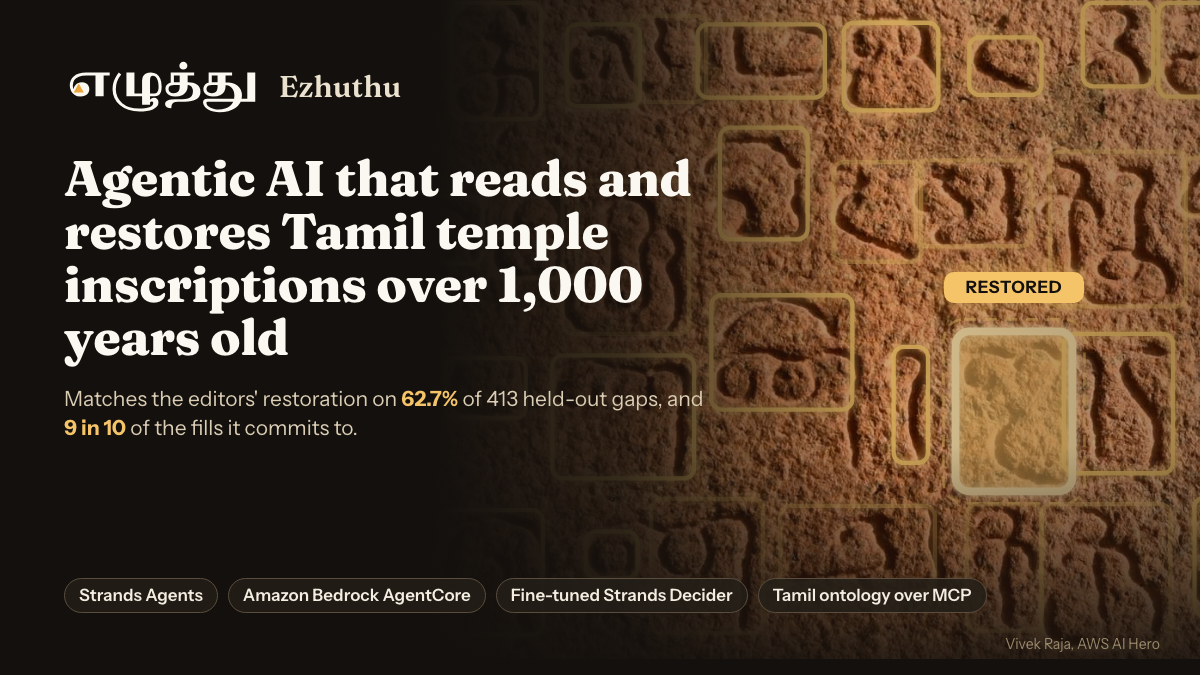
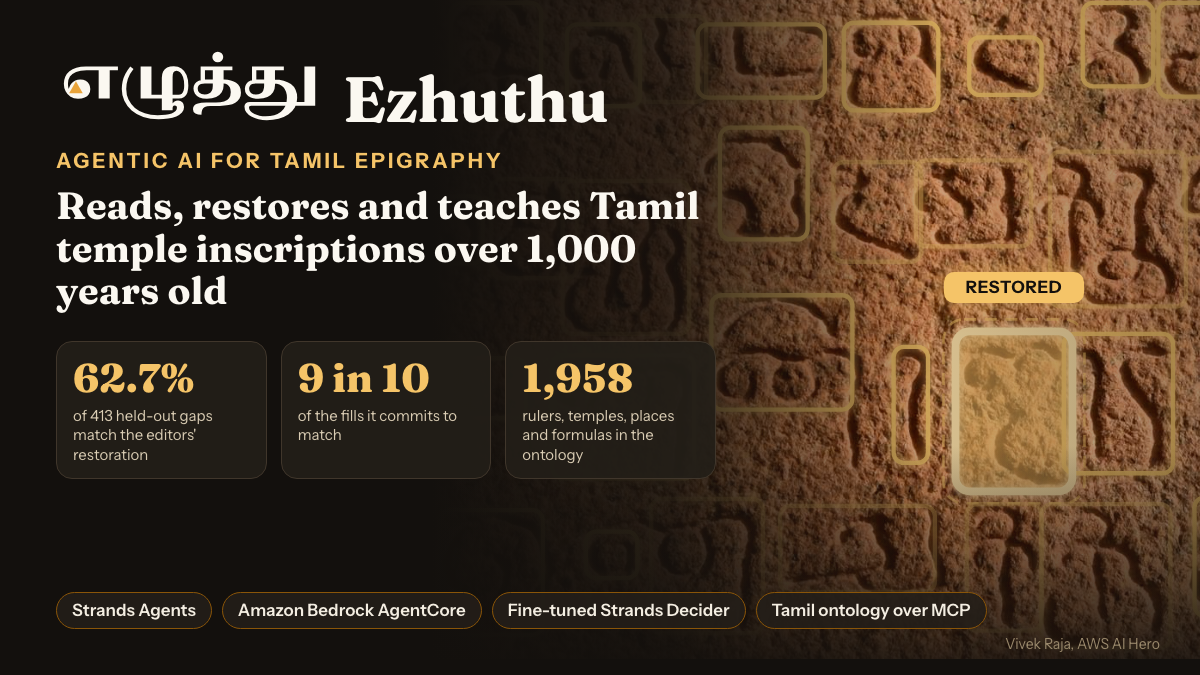
blog: project cover with a larger title and three highlight tiles

Changed region(s): [[0.0308, 0.0, 0.7708, 0.7156], [0.0617, 0.84, 0.8325, 0.9333], [0.0308, 0.0622, 0.5242, 0.1867]]

diff --git a/blog/figures/html/project-00-cover.html b/blog/figures/html/project-00-cover.html
@@ -54,15 +54,16 @@ body { font-family: var(--sans); color: var(--ink); -webkit-font-smoothing: anti
  <img src="file:///Users/vivekrajaps/tamil-script/ezhuthu-wt/blog-sweep/app/web/public/hero/thanjavur-1568.jpg" style="width:100%;height:100%;display:block;filter:saturate(1.05) contrast(1.05) brightness(.92)">
  <svg viewBox="0 0 1568 778" style="position:absolute;inset:0;width:100%;height:100%"><defs><filter id="g4"><feGaussianBlur stdDeviation="5" result="b"/><feMerge><feMergeNode in="b"/><feMergeNode in="SourceGraphic"/></feMerge></filter></defs>
  <g filter="url(#g4)"><rect x="65" y="15" width="105" height="135" rx="12" fill="none" stroke="#F5C468" stroke-opacity="0.9" stroke-width="5"/><rect x="200" y="40" width="85" height="95" rx="12" fill="none" stroke="#F5C468" stroke-opacity="0.9" stroke-width="5"/><rect x="280" y="30" width="82" height="100" rx="12" fill="none" stroke="#F5C468" stroke-opacity="0.4" stroke-width="5"/><rect x="352" y="40" width="148" height="85" rx="12" fill="none" stroke="#F5C468" stroke-opacity="0.9" stroke-width="5"/><rect x="522" y="38" width="110" height="102" rx="12" fill="none" stroke="#F5C468" stroke-opacity="0.9" stroke-width="5"/><rect x="668" y="55" width="84" height="67" rx="12" fill="none" stroke="#F5C468" stroke-opacity="0.9" stroke-width="5"/><rect x="800" y="15" width="82" height="97" rx="12" fill="none" stroke="#F5C468" stroke-opacity="0.9" stroke-width="5"/><rect x="888" y="15" width="82" height="109" rx="12" fill="none" stroke="#F5C468" stroke-opacity="0.9" stroke-width="5"/><rect x="1005" y="12" width="95" height="90" rx="12" fill="none" stroke="#F5C468" stroke-opacity="0.4" stroke-width="5"/><rect x="1110" y="12" width="112" height="66" rx="12" fill="none" stroke="#F5C468" stroke-opacity="0.4" stroke-width="5"/><rect x="1236" y="5" width="159" height="130" rx="12" fill="none" stroke="#F5C468" stroke-opacity="0.9" stroke-width="5"/><rect x="1405" y="4" width="125" height="96" rx="12" fill="none" stroke="#F5C468" stroke-opacity="0.9" stroke-width="5"/><rect x="12" y="240" width="90" height="78" rx="12" fill="none" stroke="#F5C468" stroke-opacity="0.9" stroke-width="5"/><rect x="112" y="220" width="100" height="115" rx="12" fill="none" stroke="#F5C468" stroke-opacity="0.4" stroke-width="5"/><rect x="195" y="222" width="147" height="178" rx="12" fill="none" stroke="#F5C468" stroke-opacity="0.4" stroke-width="5"/><rect x="378" y="160" width="102" height="130" rx="12" fill="none" stroke="#F5C468" stroke-opacity="0.9" stroke-width="5"/><rect x="510" y="200" width="102" height="116" rx="12" fill="none" stroke="#F5C468" stroke-opacity="0.4" stroke-width="5"/><rect x="606" y="198" width="134" height="100" rx="12" fill="none" stroke="#F5C468" stroke-opacity="0.4" stroke-width="5"/><rect x="762" y="188" width="158" height="180" rx="12" fill="none" stroke="#F5C468" stroke-opacity="0.4" stroke-width="5"/><rect x="918" y="195" width="122" height="67" rx="12" fill="none" stroke="#F5C468" stroke-opacity="0.4" stroke-width="5"/><rect x="1060" y="188" width="190" height="94" rx="12" fill="none" stroke="#F5C468" stroke-opacity="0.9" stroke-width="5"/><rect x="1265" y="185" width="75" height="65" rx="12" fill="none" stroke="#F5C468" stroke-opacity="0.9" stroke-width="5"/><rect x="1342" y="185" width="140" height="147" rx="12" fill="none" stroke="#F5C468" stroke-opacity="0.9" stroke-width="5"/><rect x="1505" y="190" width="55" height="146" rx="12" fill="none" stroke="#F5C468" stroke-opacity="0.9" stroke-width="5"/><rect x="58" y="428" width="94" height="70" rx="12" fill="none" stroke="#F5C468" stroke-opacity="0.9" stroke-width="5"/><rect x="183" y="425" width="165" height="143" rx="12" fill="none" stroke="#F5C468" stroke-opacity="0.9" stroke-width="5"/><rect x="368" y="355" width="164" height="133" rx="12" fill="none" stroke="#F5C468" stroke-opacity="0.9" stroke-width="5"/><rect x="580" y="415" width="40" height="135" rx="12" fill="none" stroke="#F5C468" stroke-opacity="0.9" stroke-width="5"/><rect x="778" y="400" width="127" height="162" rx="12" fill="none" stroke="#F5C468" stroke-opacity="0.9" stroke-width="5"/><rect x="965" y="400" width="95" height="165" rx="12" fill="none" stroke="#F5C468" stroke-opacity="0.4" stroke-width="5"/><rect x="1060" y="385" width="108" height="183" rx="12" fill="none" stroke="#F5C468" stroke-opacity="0.9" stroke-width="5"/><rect x="1175" y="380" width="150" height="150" rx="12" fill="none" stroke="#F5C468" stroke-opacity="0.4" stroke-width="5"/><rect x="1325" y="375" width="115" height="95" rx="12" fill="none" stroke="#F5C468" stroke-opacity="0.9" stroke-width="5"/><rect x="1442" y="360" width="78" height="152" rx="12" fill="none" stroke="#F5C468" stroke-opacity="0.4" stroke-width="5"/><rect x="52" y="605" width="120" height="145" rx="12" fill="none" stroke="#F5C468" stroke-opacity="0.9" stroke-width="5"/><rect x="222" y="630" width="60" height="54" rx="12" fill="none" stroke="#F5C468" stroke-opacity="0.9" stroke-width="5"/><rect x="298" y="592" width="130" height="156" rx="12" fill="none" stroke="#F5C468" stroke-opacity="0.4" stroke-width="5"/><rect x="448" y="600" width="180" height="100" rx="12" fill="none" stroke="#F5C468" stroke-opacity="0.4" stroke-width="5"/><rect x="665" y="598" width="87" height="147" rx="12" fill="none" stroke="#F5C468" stroke-opacity="0.4" stroke-width="5"/><rect x="752" y="598" width="150" height="167" rx="12" fill="none" stroke="#F5C468" stroke-opacity="0.4" stroke-width="5"/><rect x="930" y="590" width="132" height="138" rx="12" fill="none" stroke="#F5C468" stroke-opacity="0.9" stroke-width="5"/><rect x="1080" y="595" width="175" height="85" rx="12" fill="none" stroke="#F5C468" stroke-opacity="0.9" stroke-width="5"/><rect x="1262" y="560" width="34" height="144" rx="12" fill="none" stroke="#F5C468" stroke-opacity="0.9" stroke-width="5"/><rect x="1305" y="575" width="143" height="87" rx="12" fill="none" stroke="#F5C468" stroke-opacity="0.9" stroke-width="5"/><rect x="1448" y="565" width="90" height="131" rx="12" fill="none" stroke="#F5C468" stroke-opacity="0.4" stroke-width="5"/><rect x="652" y="397" width="136" height="186" rx="16" fill="#F5C468" fill-opacity=".34" stroke="#FBDFA6" stroke-width="9"/><rect x="638" y="383" width="164" height="214" rx="24" fill="none" stroke="#F5C468" stroke-opacity=".55" stroke-width="3" stroke-dasharray="14 10"/></g></svg></div>
-<div style="position:absolute;inset:0;background:linear-gradient(90deg,#13100D 0%,#13100D 36%,rgba(19,16,13,.82) 52%,rgba(19,16,13,.15) 74%,rgba(19,16,13,.35) 100%)"></div>
+<div style="position:absolute;inset:0;background:linear-gradient(90deg,#13100D 0%,#13100D 36%,rgba(19,16,13,.86) 56%,rgba(19,16,13,.15) 78%,rgba(19,16,13,.35) 100%)"></div>
 <div style="position:absolute;inset:0;background:linear-gradient(0deg,rgba(19,16,13,.92) 0%,rgba(19,16,13,0) 34%)"></div>
 <div style="position:absolute;left:944px;top:272px;width:140px;text-align:center;padding:7px 0;border-radius:10px;background:#F5C468;
  font:700 17px/1 var(--sans);color:#13100D;letter-spacing:.04em;box-shadow:0 0 24px rgba(245,196,104,.6)">RESTORED</div>
-<div style="position:absolute;left:64px;top:56px;width:640px">
- <div style="display:flex;align-items:center;gap:18px"><img src="file:///Users/vivekrajaps/tamil-script/ezhuthu-wt/blog-sweep/design/brand/logo/wordmark-ta-reversed.svg" style="height:62px">
-  <span style="font:600 30px/1 var(--serif);color:#EAE1CE">Ezhuthu</span></div>
- <div style="font:800 50px/1.06 var(--serif);color:#FBF8F1;margin-top:34px;letter-spacing:-.01em">Agentic AI that reads and restores Tamil temple inscriptions over 1,000 years old</div>
- <div style="font:500 21px/1.4 var(--sans);color:#DACDB4;margin-top:20px">Matches the editors' restoration on <b style="color:#F5C468">62.7%</b> of 413 held-out gaps, and <b style="color:#F5C468">9 in 10</b> of the fills it commits to.</div>
+<div style="position:absolute;left:56px;top:44px;width:660px">
+ <div style="display:flex;align-items:flex-end;gap:20px"><img src="file:///Users/vivekrajaps/tamil-script/ezhuthu-wt/blog-sweep/design/brand/logo/wordmark-ta-reversed.svg" style="height:84px">
+  <span style="font:700 64px/0.9 var(--serif);color:#FBF8F1;letter-spacing:-.01em">Ezhuthu</span></div>
+ <div style="font:700 21px/1 var(--sans);color:#F5C468;letter-spacing:.14em;margin-top:22px">AGENTIC AI FOR TAMIL EPIGRAPHY</div>
+ <div style="font:700 38px/1.12 var(--serif);color:#FBF8F1;margin-top:14px">Reads, restores and teaches Tamil temple inscriptions over 1,000 years old</div>
+ <div style="display:flex;gap:14px;margin-top:28px"><div style="flex:1;padding:16px 16px 14px;border-radius:16px;background:rgba(35,30,24,.92);border:1.5px solid #40362B"><div style="font:800 40px/1 var(--serif);color:#F5C468">62.7%</div><div style="font:500 15px/1.3 var(--sans);color:#DACDB4;margin-top:8px">of 413 held-out gaps match the editors' restoration</div></div><div style="flex:1;padding:16px 16px 14px;border-radius:16px;background:rgba(35,30,24,.92);border:1.5px solid #40362B"><div style="font:800 40px/1 var(--serif);color:#F5C468">9 in 10</div><div style="font:500 15px/1.3 var(--sans);color:#DACDB4;margin-top:8px">of the fills it commits to match</div></div><div style="flex:1;padding:16px 16px 14px;border-radius:16px;background:rgba(35,30,24,.92);border:1.5px solid #40362B"><div style="font:800 40px/1 var(--serif);color:#F5C468">1,958</div><div style="font:500 15px/1.3 var(--sans);color:#DACDB4;margin-top:8px">rulers, temples, places and formulas in the ontology</div></div></div>
 </div>
-<div style="position:absolute;left:64px;bottom:52px;width:1080px"><span style="display:inline-block;margin:0 10px 10px 0;padding:8px 14px;border-radius:999px;border:1.5px solid #5A4D3E;background:rgba(35,30,24,.85);font:600 17px/1 var(--sans);color:#F4EEE2">Strands Agents</span><span style="display:inline-block;margin:0 10px 10px 0;padding:8px 14px;border-radius:999px;border:1.5px solid #5A4D3E;background:rgba(35,30,24,.85);font:600 17px/1 var(--sans);color:#F4EEE2">Amazon Bedrock AgentCore</span><span style="display:inline-block;margin:0 10px 10px 0;padding:8px 14px;border-radius:999px;border:1.5px solid #5A4D3E;background:rgba(35,30,24,.85);font:600 17px/1 var(--sans);color:#F4EEE2">Fine-tuned Strands Decider</span><span style="display:inline-block;margin:0 10px 10px 0;padding:8px 14px;border-radius:999px;border:1.5px solid #5A4D3E;background:rgba(35,30,24,.85);font:600 17px/1 var(--sans);color:#F4EEE2">Tamil ontology over MCP</span></div>
+<div style="position:absolute;left:56px;bottom:46px;width:1100px"><span style="display:inline-block;margin:0 10px 0 0;padding:9px 15px;border-radius:999px;border:1.5px solid #8A5508;background:rgba(35,30,24,.9);font:600 17px/1 var(--sans);color:#F4EEE2">Strands Agents</span><span style="display:inline-block;margin:0 10px 0 0;padding:9px 15px;border-radius:999px;border:1.5px solid #8A5508;background:rgba(35,30,24,.9);font:600 17px/1 var(--sans);color:#F4EEE2">Amazon Bedrock AgentCore</span><span style="display:inline-block;margin:0 10px 0 0;padding:9px 15px;border-radius:999px;border:1.5px solid #8A5508;background:rgba(35,30,24,.9);font:600 17px/1 var(--sans);color:#F4EEE2">Fine-tuned Strands Decider</span><span style="display:inline-block;margin:0 10px 0 0;padding:9px 15px;border-radius:999px;border:1.5px solid #8A5508;background:rgba(35,30,24,.9);font:600 17px/1 var(--sans);color:#F4EEE2">Tamil ontology over MCP</span></div>
 <div style="position:absolute;right:40px;bottom:24px;font:500 14px/1 var(--sans);color:#9A896C">Vivek Raja, AWS AI Hero</div></div></body></html>

diff --git a/blog/figures/gen.py b/blog/figures/gen.py
@@ -955,25 +955,32 @@ def covers() -> None:
               f'<rect x="{hx1-22}" y="{hy1-22}" width="{hx2-hx1+44}" height="{hy2-hy1+44}" rx="24" fill="none" '
               f'stroke="{C["lamp300"]}" stroke-opacity=".55" stroke-width="3" stroke-dasharray="14 10"/>')
     tagx, tagy = ox + (hx1 + hx2) / 2 * sc, oy + hy1 * sc - 66
-    chips = "".join(f'<span style="display:inline-block;margin:0 10px 10px 0;padding:8px 14px;border-radius:999px;border:1.5px solid #5A4D3E;'
-                    f'background:rgba(35,30,24,.85);font:600 17px/1 var(--sans);color:{C["stone100"]}">{t}</span>'
+    chips = "".join(f'<span style="display:inline-block;margin:0 10px 0 0;padding:9px 15px;border-radius:999px;border:1.5px solid {C["lamp700"]};'
+                    f'background:rgba(35,30,24,.9);font:600 17px/1 var(--sans);color:{C["stone100"]}">{t}</span>'
                     for t in ("Strands Agents", "Amazon Bedrock AgentCore", "Fine-tuned Strands Decider", "Tamil ontology over MCP"))
+    tiles = "".join(f'<div style="flex:1;padding:16px 16px 14px;border-radius:16px;background:rgba(35,30,24,.92);border:1.5px solid {C["g700"]}">'
+                    f'<div style="font:800 40px/1 var(--serif);color:{C["lamp300"]}">{big}</div>'
+                    f'<div style="font:500 15px/1.3 var(--sans);color:{C["stone300"]};margin-top:8px">{small}</div></div>'
+                    for big, small in (("62.7%", "of 413 held-out gaps match the editors' restoration"),
+                                       ("9 in 10", "of the fills it commits to match"),
+                                       ("1,958", "rulers, temples, places and formulas in the ontology")))
     c4 = f"""<div style="position:absolute;inset:0;background:{C["g950"]}"></div>
 <div style="position:absolute;left:{ox}px;top:{oy}px;width:{pw:.0f}px;height:{ph:.0f}px">
  <img src="{photo}" style="width:100%;height:100%;display:block;filter:saturate(1.05) contrast(1.05) brightness(.92)">
  <svg viewBox="0 0 {W} {Hh}" style="position:absolute;inset:0;width:100%;height:100%"><defs><filter id="g4"><feGaussianBlur stdDeviation="5" result="b"/><feMerge><feMergeNode in="b"/><feMergeNode in="SourceGraphic"/></feMerge></filter></defs>
  <g filter="url(#g4)">{''.join(pr)}</g></svg></div>
-<div style="position:absolute;inset:0;background:linear-gradient(90deg,{C["g950"]} 0%,{C["g950"]} 36%,rgba(19,16,13,.82) 52%,rgba(19,16,13,.15) 74%,rgba(19,16,13,.35) 100%)"></div>
+<div style="position:absolute;inset:0;background:linear-gradient(90deg,{C["g950"]} 0%,{C["g950"]} 36%,rgba(19,16,13,.86) 56%,rgba(19,16,13,.15) 78%,rgba(19,16,13,.35) 100%)"></div>
 <div style="position:absolute;inset:0;background:linear-gradient(0deg,rgba(19,16,13,.92) 0%,rgba(19,16,13,0) 34%)"></div>
 <div style="position:absolute;left:{tagx-70:.0f}px;top:{tagy:.0f}px;width:140px;text-align:center;padding:7px 0;border-radius:10px;background:{C["lamp300"]};
  font:700 17px/1 var(--sans);color:{C["g950"]};letter-spacing:.04em;box-shadow:0 0 24px rgba(245,196,104,.6)">RESTORED</div>
-<div style="position:absolute;left:64px;top:56px;width:640px">
- <div style="display:flex;align-items:center;gap:18px"><img src="{LOGO}/wordmark-ta-reversed.svg" style="height:62px">
-  <span style="font:600 30px/1 var(--serif);color:{C["stone200"]}">Ezhuthu</span></div>
- <div style="font:800 50px/1.06 var(--serif);color:{C["stone50"]};margin-top:34px;letter-spacing:-.01em">Agentic AI that reads and restores Tamil temple inscriptions over 1,000 years old</div>
- <div style="font:500 21px/1.4 var(--sans);color:{C["stone300"]};margin-top:20px">Matches the editors' restoration on <b style="color:{C["lamp300"]}">62.7%</b> of 413 held-out gaps, and <b style="color:{C["lamp300"]}">9 in 10</b> of the fills it commits to.</div>
+<div style="position:absolute;left:56px;top:44px;width:660px">
+ <div style="display:flex;align-items:flex-end;gap:20px"><img src="{LOGO}/wordmark-ta-reversed.svg" style="height:84px">
+  <span style="font:700 64px/0.9 var(--serif);color:{C["stone50"]};letter-spacing:-.01em">Ezhuthu</span></div>
+ <div style="font:700 21px/1 var(--sans);color:{C["lamp300"]};letter-spacing:.14em;margin-top:22px">AGENTIC AI FOR TAMIL EPIGRAPHY</div>
+ <div style="font:700 38px/1.12 var(--serif);color:{C["stone50"]};margin-top:14px">Reads, restores and teaches Tamil temple inscriptions over 1,000 years old</div>
+ <div style="display:flex;gap:14px;margin-top:28px">{tiles}</div>
 </div>
-<div style="position:absolute;left:64px;bottom:52px;width:1080px">{chips}</div>
+<div style="position:absolute;left:56px;bottom:46px;width:1100px">{chips}</div>
 <div style="position:absolute;right:40px;bottom:24px;font:500 14px/1 var(--sans);color:{C["stone500"]}">Vivek Raja, AWS AI Hero</div>"""
     page("project-00-cover", c4, w=1200, h=675, theme="dark")
 

diff --git a/blog/ezhuthu-project.md b/blog/ezhuthu-project.md
@@ -3,7 +3,7 @@ title: "Ezhuthu: An Apprentice for Tamil Temple Inscriptions, Built with Strands
 description: "Identify letters, restore worn-away text and learn to read Tamil inscriptions over 1,000 years old. Built with Strands Agents on Amazon Bedrock AgentCore: a Reader names each carved letter, a Restorer fills gaps from parallel inscriptions with calibrated confidence, the agents look up a custom Tamil epigraphy ontology, a fine-tuned Strands decision model is public on Hugging Face, and a Tutor teaches in Tamil. Matches the editors' restoration on 62.7% of 413 held-out gaps; 9 in 10 when it commits."
 tags: ["strands-agents", "amazon-bedrock-agentcore", "generative-ai", "education", "social-good"]
 cover: "img/project-00-cover.jpg"
-cover_alt: "Ezhuthu cover: the Tamil and English wordmarks and the line Agentic AI that reads and restores Tamil temple inscriptions over 1,000 years old, beside the inscribed Thanjavur temple wall with lamp-lit outlines around the carved letters and one gap highlighted as restored; it matches the editors' restoration on 62.7% of 413 held-out gaps and 9 in 10 of its committed fills; built with Strands Agents, Amazon Bedrock AgentCore, a fine-tuned Strands Decider and a Tamil ontology over MCP"
+cover_alt: "Ezhuthu cover: the Tamil and English wordmarks, the label Agentic AI for Tamil epigraphy and the title Reads, restores and teaches Tamil temple inscriptions over 1,000 years old; three highlights: 62.7% of 413 held-out gaps match the editors' restoration, 9 in 10 of the fills it commits to match, and 1,958 rulers, temples, places and formulas in the ontology; chips for Strands Agents, Amazon Bedrock AgentCore, a fine-tuned Strands Decider and a Tamil ontology over MCP; on the right, the inscribed Thanjavur temple wall with lamp-lit letter outlines and one gap highlighted as restored"
 repo: "https://github.com/Vivek0712/ezhuthu"
 demo: "https://d3jz2k92ne5puo.cloudfront.net"
 notebook: "https://github.com/Vivek0712/ezhuthu/blob/main/notebooks/ezhuthu_end_to_end.ipynb"

diff --git a/blog/publish/project-fields.md b/blog/publish/project-fields.md
@@ -10,8 +10,8 @@ Tags: ["strands-agents", "amazon-bedrock-agentcore", "generative-ai", "education
 GitHub or GitLab Repository: https://github.com/Vivek0712/ezhuthu
 Endpoint or live demo: https://d3jz2k92ne5puo.cloudfront.net
 Jupyter or SageMaker notebook: https://github.com/Vivek0712/ezhuthu/blob/main/notebooks/ezhuthu_end_to_end.ipynb
-Cover image: blog/img/project-00-cover.jpg [1200x675 JPEG, 183 KB] (1200x675 png/jpg/webp, <= 2 MB, no text)
-Cover alt text: Ezhuthu cover: the Tamil and English wordmarks and the line Agentic AI that reads and restores Tamil temple inscriptions over 1,000 years old, beside the inscribed Thanjavur temple wall with lamp-lit outlines around the carved letters and one gap highlighted as restored; it matches the editors' restoration on 62.7% of 413 held-out gaps and 9 in 10 of its committed fills; built with Strands Agents, Amazon Bedrock AgentCore, a fine-tuned Strands Decider and a Tamil ontology over MCP
+Cover image: blog/img/project-00-cover.jpg [1200x675 JPEG, 178 KB] (1200x675 png/jpg/webp, <= 2 MB, no text)
+Cover alt text: Ezhuthu cover: the Tamil and English wordmarks, the label Agentic AI for Tamil epigraphy and the title Reads, restores and teaches Tamil temple inscriptions over 1,000 years old; three highlights: 62.7% of 413 held-out gaps match the editors' restoration, 9 in 10 of the fills it commits to match, and 1,958 rulers, temples, places and formulas in the ontology; chips for Strands Agents, Amazon Bedrock AgentCore, a fine-tuned Strands Decider and a Tamil ontology over MCP; on the right, the inscribed Thanjavur temple wall with lamp-lit letter outlines and one gap highlighted as restored
 
 Figures, in body order. Each < FIGURE n of N > marker in the body is replaced by the upload; the
 Alt text line under it goes into the image's alt field; the italic line after it is the caption.

diff --git a/blog/publish/project-body.md b/blog/publish/project-body.md
@@ -1,5 +1,5 @@
 < COVER IMAGE: upload blog/img/project-00-cover.jpg in the cover field (1200x675, no text) >
-Alt text: Ezhuthu cover: the Tamil and English wordmarks and the line Agentic AI that reads and restores Tamil temple inscriptions over 1,000 years old, beside the inscribed Thanjavur temple wall with lamp-lit outlines around the carved letters and one gap highlighted as restored; it matches the editors' restoration on 62.7% of 413 held-out gaps and 9 in 10 of its committed fills; built with Strands Agents, Amazon Bedrock AgentCore, a fine-tuned Strands Decider and a Tamil ontology over MCP
+Alt text: Ezhuthu cover: the Tamil and English wordmarks, the label Agentic AI for Tamil epigraphy and the title Reads, restores and teaches Tamil temple inscriptions over 1,000 years old; three highlights: 62.7% of 413 held-out gaps match the editors' restoration, 9 in 10 of the fills it commits to match, and 1,958 rulers, temples, places and formulas in the ontology; chips for Strands Agents, Amazon Bedrock AgentCore, a fine-tuned Strands Decider and a Tamil ontology over MCP; on the right, the inscribed Thanjavur temple wall with lamp-lit letter outlines and one gap highlighted as restored
 
 By Vivek Raja, AWS AI Hero
 
